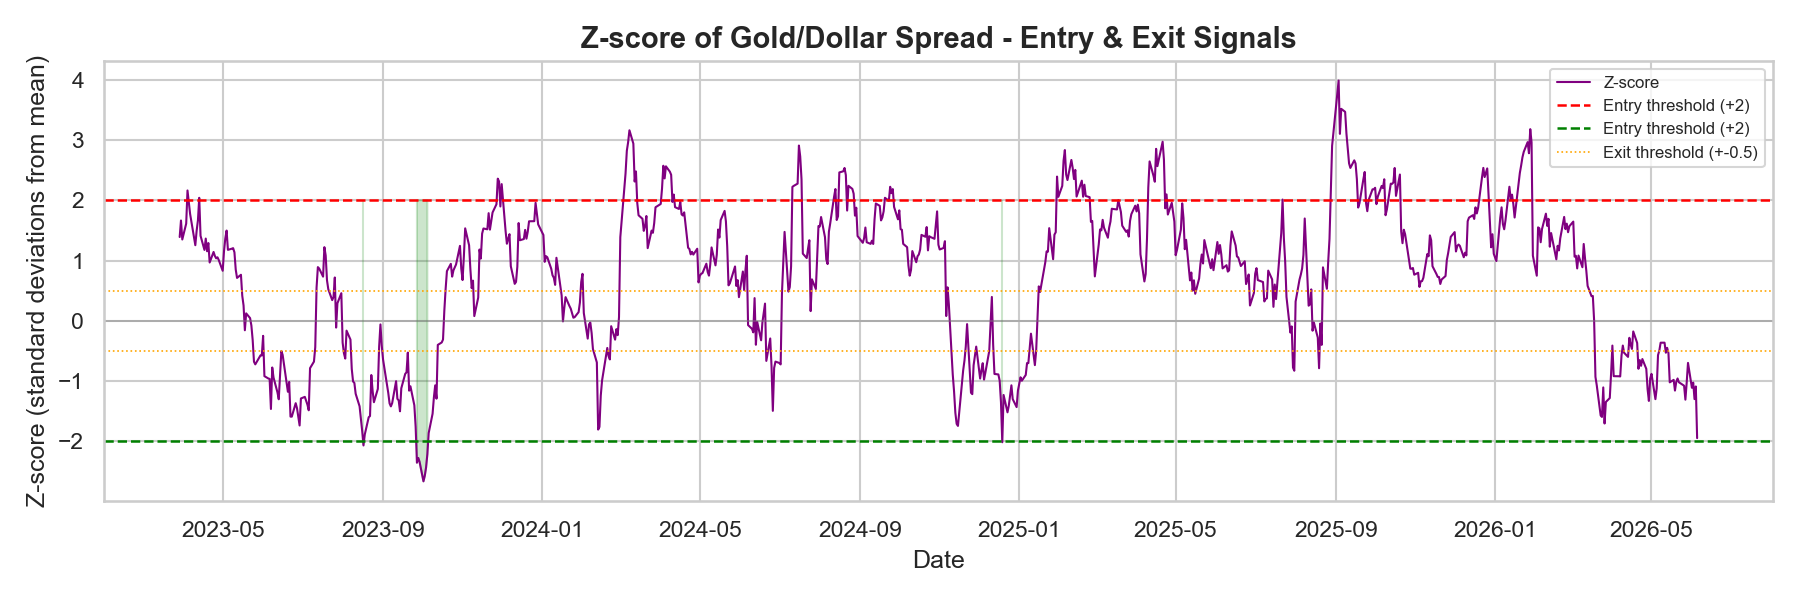
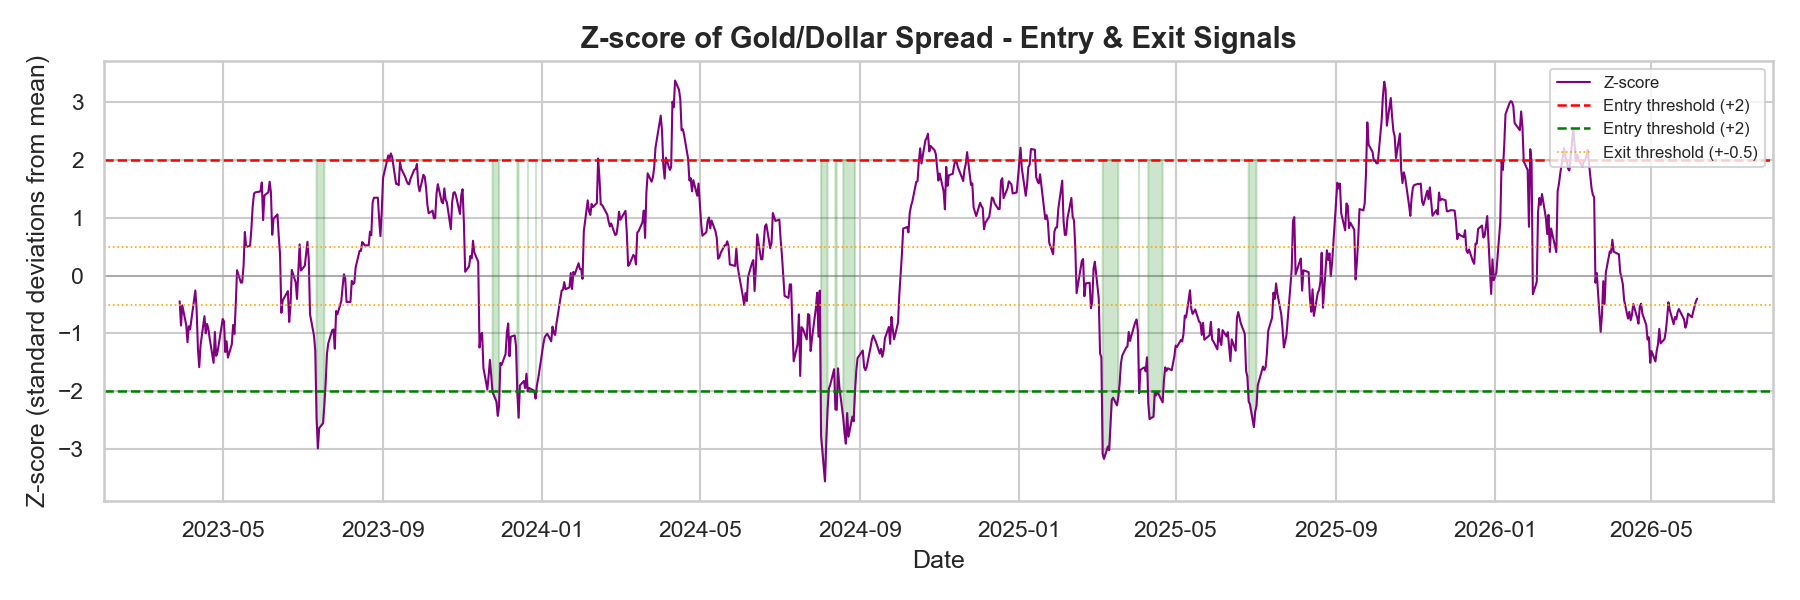
Added OLS hedge ration and fixed win rate calculation. Originally sized gold and dollar legs at a 1:1 ratio, but given gold's significantly higher volatility, applied an OLS regression hedge ratio to weight each leg proportionally, ensuring the strategy was genuinely market-neutral rather than inadv

Changed region(s): [[0.0311, 0.12, 0.9956, 0.78]]

diff --git a/pairstrading.py b/pairstrading.py
@@ -82,6 +82,31 @@ print(f"✓  Spread std:  {df['Spread'].std():.2f}")
 print(f"✓  Spread range:  {df['Spread'].min():.2f} to {df['Spread'].max():.2f}")
 
 
+#PART 5B: CALCULATE THE HEDGE RATIO VIA OLS REGRESSION
+#Rather than assuming a 1:1 relationship, we estimate the true historical
+#ratio of how much gold moves per unit of dollar movement.
+#This gives us a statistically grounded spread that should mean-revert better.
+
+from statsmodels.regression.linear_model import OLS
+from statsmodels.tools import add_constant
+
+# Run OLS: regress gold prices on dollar prices
+X = add_constant(df['Dollar'])   # adds intercept term
+model = OLS(df['Gold'], X).fit()
+hedge_ratio = model.params['Dollar']  # the slope coefficient (β)
+
+print(f"\n✓ OLS Hedge Ratio calculated")
+print(f"  β (hedge ratio): {hedge_ratio:.4f}")
+print(f"  Interpretation: Gold moves ~{hedge_ratio:.2f} units per 1 unit move in DXY")
+print(f"  R-squared: {model.rsquared:.4f}")
+
+# Recalculate the spread using the hedge ratio instead of normalised subtraction
+df['Spread'] = df['Gold'] - hedge_ratio * df['Dollar']
+
+print(f"\n✓ Hedge-ratio-adjusted spread calculated")
+print(f"  Spread mean: {df['Spread'].mean():.2f}")
+print(f"  Spread std:  {df['Spread'].std():.2f}")
+
 #PART 6: ADF STATIONARITY TEST & THE ENGLE-GRANGER COINTEGRATION TEST
 #Need to statistically prove that the spread is mean-reverting (stationary). If it is not,
 #the whole strategy is built on a false assumption.
@@ -234,9 +259,9 @@ df['Gold_return'] = df['Gold'].pct_change()
 df['Dollar_return'] = df['Dollar'].pct_change()
 
 df['Gold_leg'] = df['Signal'].shift(1) * df['Gold_return']
-df['Dollar_leg'] = -df['Signal'].shift(1) * df['Dollar_return']
+df['Dollar_leg'] = -df['Signal'].shift(1) * hedge_ratio * df['Dollar_return']
 
-df['Strategy_return'] = (df['Gold_leg'] + df['Dollar_leg']) / 2
+df['Strategy_return'] = (df['Gold_leg'] + df['Dollar_leg']) / (1 + hedge_ratio)
 #Combined pairs trade return = average of both legs
 #Divide by 2 as we're splitting capital across 2 positions
 
@@ -284,7 +309,7 @@ max_drawdown = drawdown.min()
 
 # Win rate
 active_days = df[df['Strategy_return'] != 0]
-win_rate = (df['Strategy_return'] > 0).sum() / len(df[df['Strategy_return'] != 0]) * 100
+win_rate = (active_days['Strategy_return'] > 0).sum() / len(df[df['Strategy_return'] != 0]) * 100
 
 print("\n" + "="*50)
 print("      PAIRS TRADE PERFORMANCE SUMMARY")
